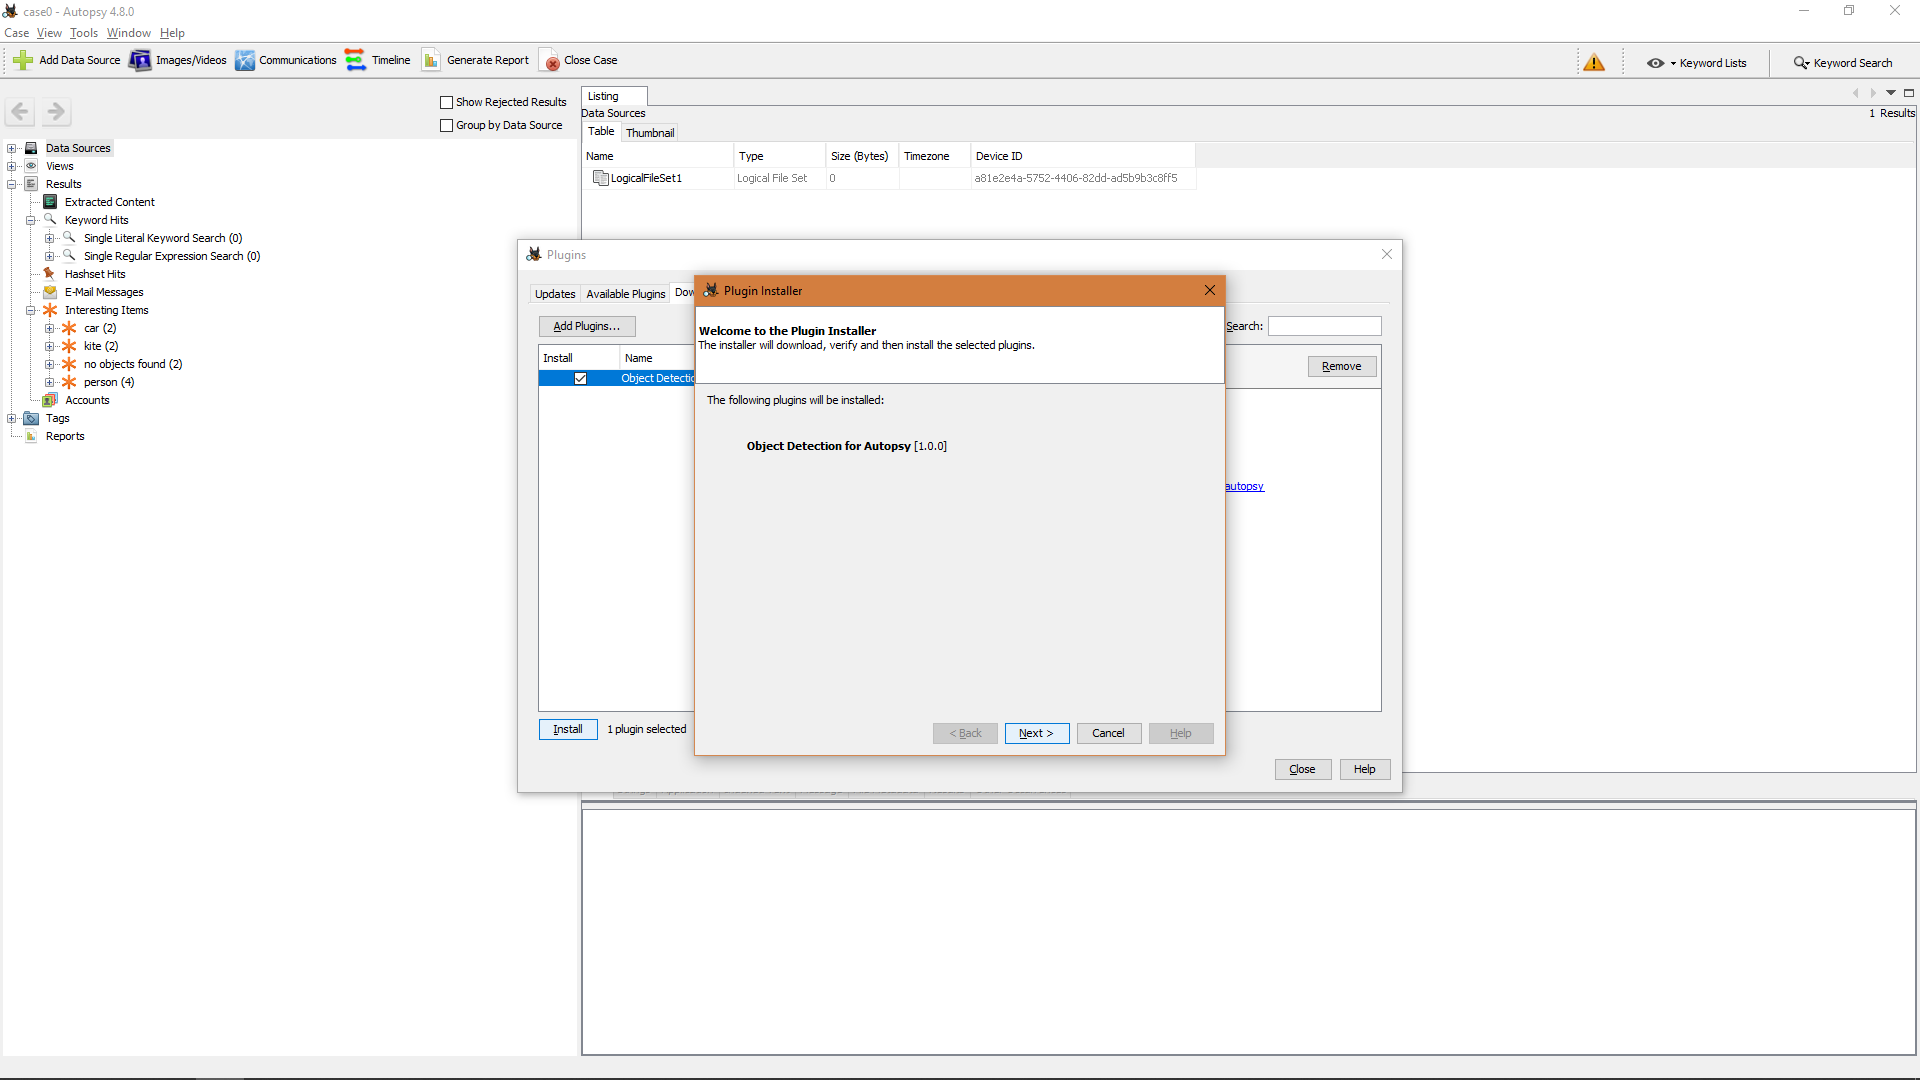
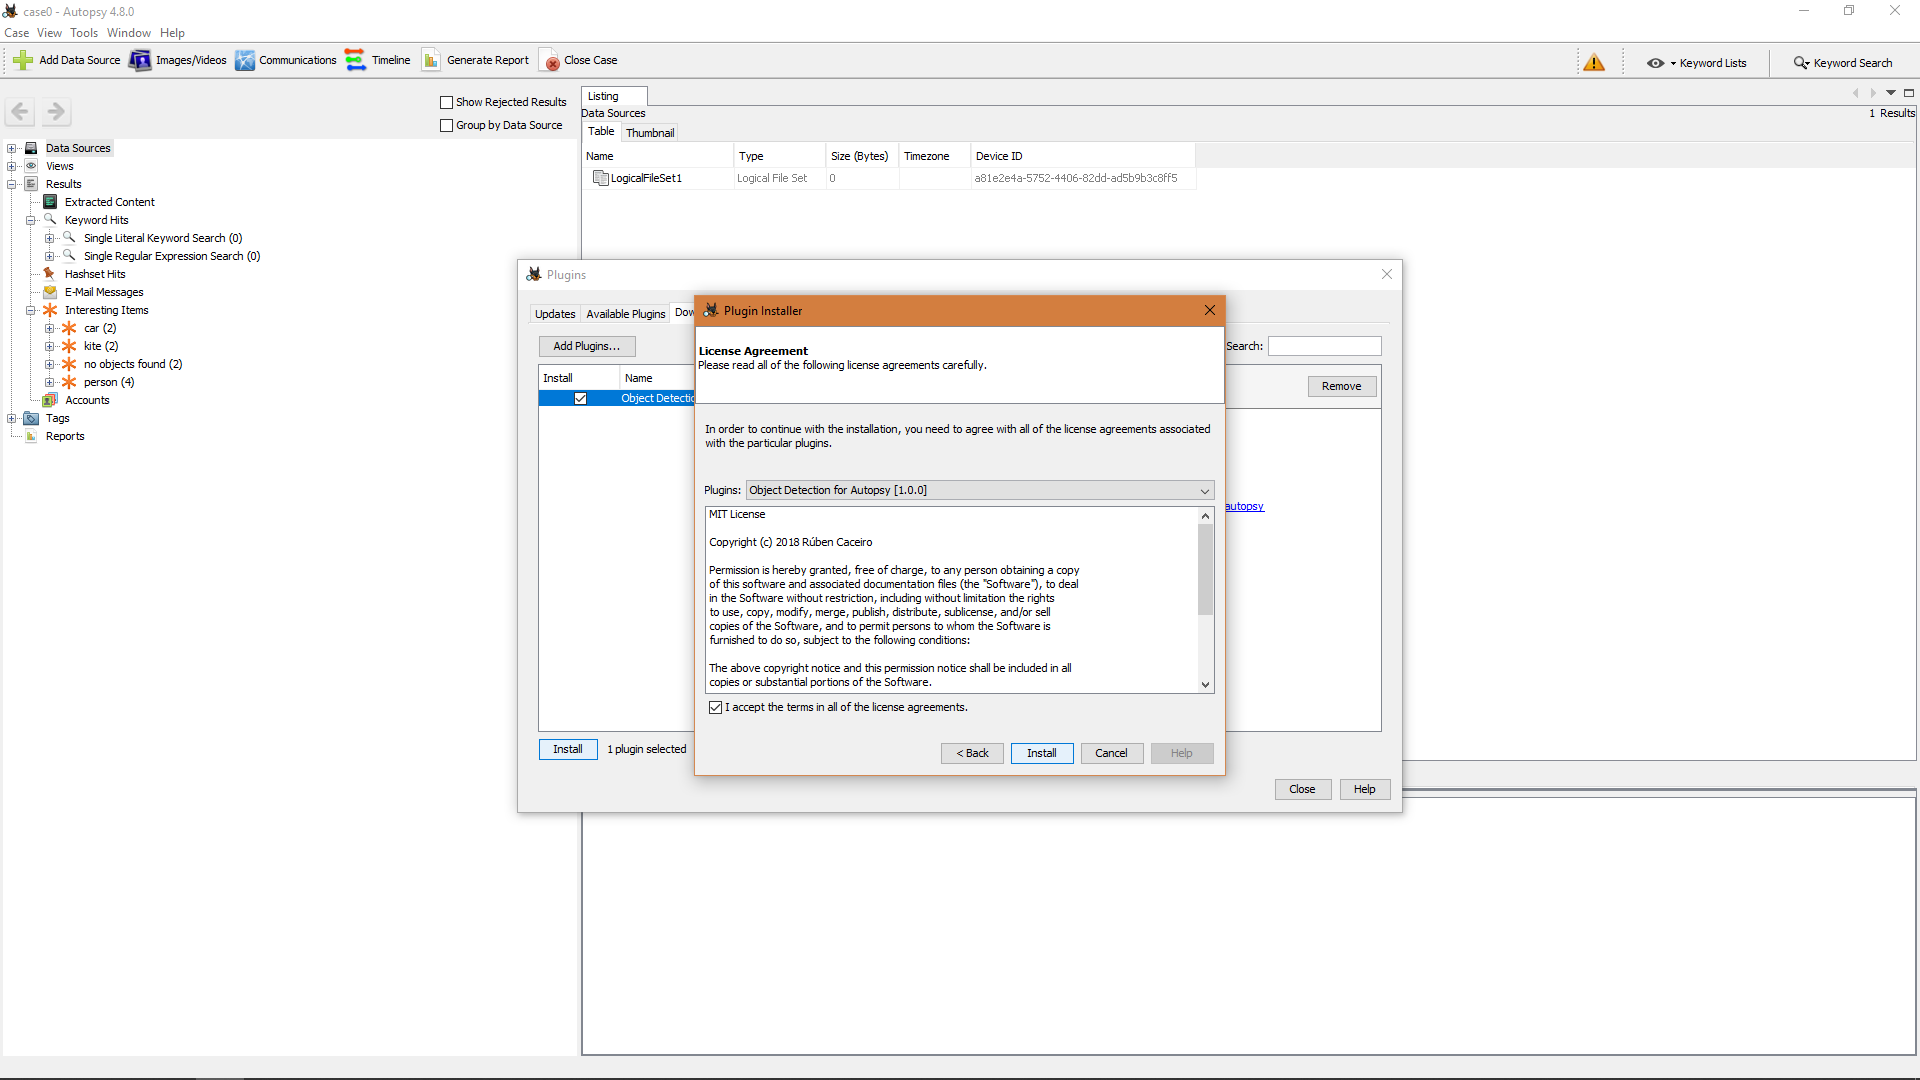
Readme done and changed 6.png

diff --git a/README.md b/README.md
@@ -1,2 +1,54 @@
 # Object Detection for Autopsy
 This module is developed in [Java](https://www.oracle.com/technetwork/java/javase/overview/java8-2100321.html), allow to use a state-of-the-art, real-time object detection system called [Yolo](https://pjreddie.com/darknet/yolo/) on open-source forensics software called [Autopsy](https://www.autopsy.com).
+This module is a FileIngestModule, in the future will bring a ReportModule too.
+It is sponsored by [Instituto de Telecomunicações](https://www.it.pt) developed by [Rúben Caceiro](https://github.com/rcaceiro) and guided by [Patrício Domingues](https://scholar.google.com/citations?user=LPwSQ2EAAAAJ&hl=en).
+
+## Mode of operation
+### Remote mode
+This mode has two components:
+1) [object.detection4autopsy.server](https://github.com/rcaceiro/object.detection4autopsy.server), the [installation process](https://github.com/rcaceiro/object.detection4autopsy.server#installation) is discribed on repository.
+2) [object.detection4autopsy](https://github.com/rcaceiro/obejct.detection4autopsy), the installation process is described [below](https://github.com/rcaceiro/object.detection4autopsy#installation)
+
+**Pros:**
+- Allow to invest on a powerfull machine and share between several users, insteaded invest in several machines less powerfull.
+- Allow to not block the computer to another tasks, because this process requires a lot resources and can leave the machine less usable.
+- You can use this mode to simulate the local mode you must have to install the server on you machine and configure the module to connect to 127.0.0.1 or localhost and the behaviour is local. **(If you want use this locally must use this setup for now)**
+
+**Cons:**
+- This mode of operation can be a bottle neck, because if a task took to long to finish the rest will be delayed.
+
+### Local mode
+**Not implemented yet**
+This mode only has on component that is this module, and allow to the user take functionality locally.
+
+**Pros:**
+- This mode of operation will not be a bottle neck, because only process the local ingest
+- Allow to you extract a first glance of your results.
+
+**Cons:**
+- You have to invest in a better machine, a common worksation, with 2 or 4 cores and no nVidia GPU, cannot extract the results as fast as you want.
+- You may notice that your machine became slow and a little unresponsive while run the insgest module
+
+## Instalation
+- Download the lastest [release](https://github.com/rcaceiro/obejct.detection4autopsy/releases) nbm file.
+- Click Tools
+ ![Main page](https://github.com/rcaceiro/obejct.detection4autopsy/blob/v1.0.0/installation_tuturial/1.PNG?raw=true)
+- Click Plugins
+ ![After tools clicked](https://github.com/rcaceiro/obejct.detection4autopsy/blob/v1.0.0/installation_tuturial/2.png?raw=true)
+- Click Downloaded tab and then Add Plugins button
+ ![After plugins clicked](https://github.com/rcaceiro/obejct.detection4autopsy/blob/v1.0.0/installation_tuturial/3.png?raw=true)
+- Find the file and then click open
+ ![After add plugins clicked](https://github.com/rcaceiro/obejct.detection4autopsy/blob/v1.0.0/installation_tuturial/4.png?raw=true)
+- Click Install
+ ![After open clicked](https://github.com/rcaceiro/obejct.detection4autopsy/blob/v1.0.0/installation_tuturial/5.png?raw=true)
+- Click Next
+ ![After install clicked](https://github.com/rcaceiro/obejct.detection4autopsy/blob/v1.0.0/installation_tuturial/6.png?raw=true)
+- Accept the terms and then Next
+ ![After next clicked](https://github.com/rcaceiro/obejct.detection4autopsy/blob/v1.0.0/installation_tuturial/7.png?raw=true)
+- Click Continue
+ ![After continue clicked](https://github.com/rcaceiro/obejct.detection4autopsy/blob/v1.0.0/installation_tuturial/8.png?raw=true)
+- Click Close
+ ![After continue clicked](https://github.com/rcaceiro/obejct.detection4autopsy/blob/v1.0.0/installation_tuturial/9.png?raw=true)
+- **Will prompt that module signature isn't trustable, we try fix this problem**
+- And now you can run the ingest modules has usual
+- **After this if you want to use remote you must have to [install the server](https://github.com/rcaceiro/object.detection4autopsy.server#installation) and run it**
